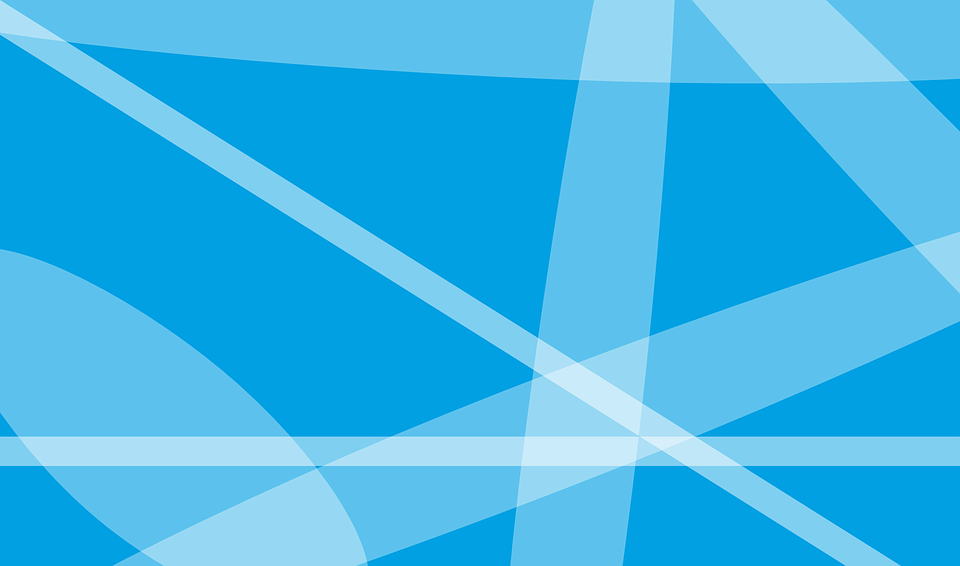
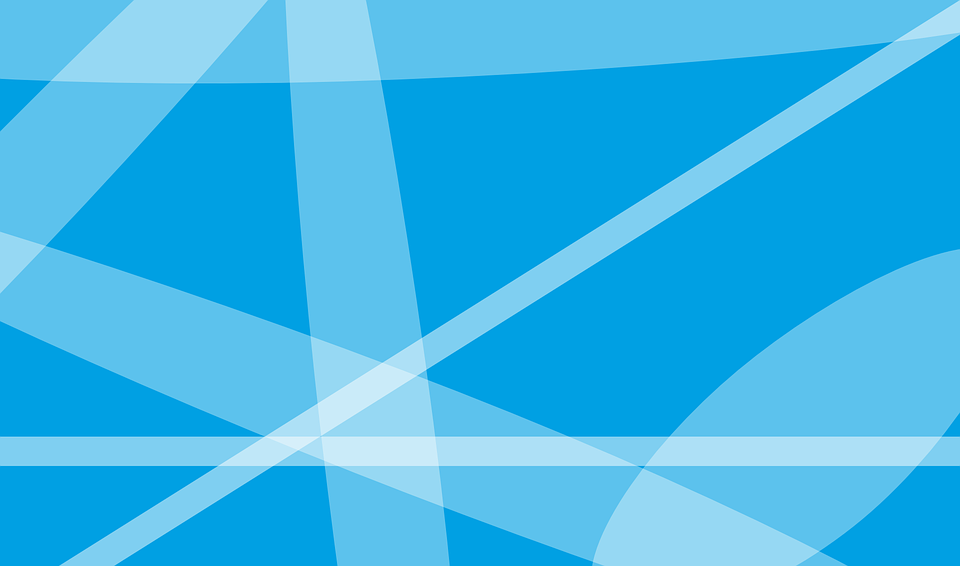
adding new background image

diff --git a/index.html b/index.html
@@ -88,6 +88,7 @@
         <div class="offset-5 col-5  transparent">
           <h3>
             <font color='white'>
+              
               Olá, sou Matheus Ladislau Ribeiro
             </font>
           </h3>

diff --git a/css/index.css b/css/index.css
@@ -12,7 +12,7 @@
 }
 
 .background{
-  background-image: url("../img/background.png");
+  background-image: url("../img/background3.png");
   height: 30px;
   background-size: 100%;
   background-repeat: no-repeat;
